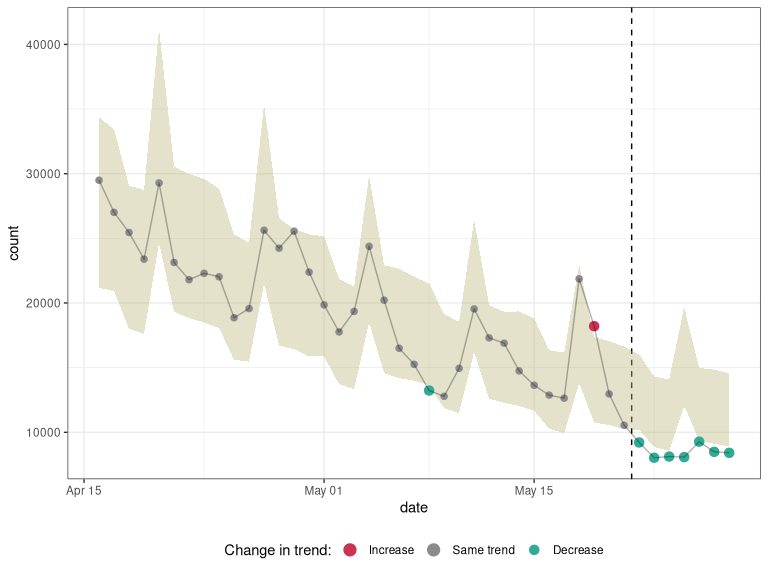
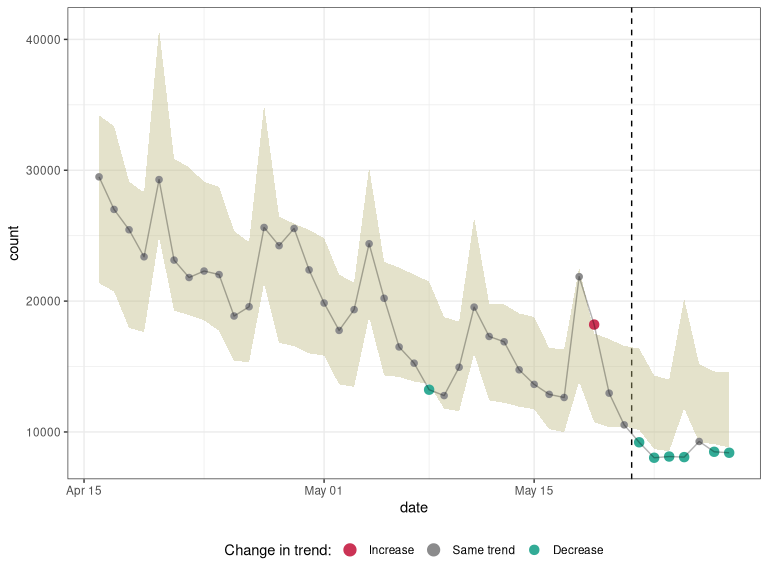
post code review changes

diff --git a/README.md b/README.md
@@ -159,8 +159,8 @@ res
 #>     }
 #>     result
 #> }
-#> <bytecode: 0x555dbbbb6e60>
-#> <environment: 0x555dbad35b60>
+#> <bytecode: 0x55b9ff02fac0>
+#> <environment: 0x55b9fe1ae7c0>
 #> 
 #> attr(,"class")
 #> [1] "trending_model_fit" "list"              
@@ -172,16 +172,16 @@ res
 #> # A tibble: 43 x 12
 #>    date         day weekday  count .training estimate lower_ci upper_ci lower_pi
 #>    <date>     <int> <fct>    <int> <lgl>        <dbl>    <dbl>    <dbl>    <dbl>
-#>  1 2020-04-16    29 rest_of… 29497 TRUE        27288.   25091.   29678.    21175
-#>  2 2020-04-17    30 rest_of… 27007 TRUE        26733.   24653.   28988.    20914
-#>  3 2020-04-18    31 weekend  25453 TRUE        23323.   21284.   25557.    17992
-#>  4 2020-04-19    32 weekend  23387 TRUE        22848.   20896.   24983.    17623
-#>  5 2020-04-20    33 monday   29287 TRUE        32078.   28549.   36043.    24667
-#>  6 2020-04-21    34 rest_of… 23134 TRUE        24621.   22957.   26406.    19313
-#>  7 2020-04-22    35 rest_of… 21803 TRUE        24120.   22547.   25803.    18835
-#>  8 2020-04-23    36 rest_of… 22298 TRUE        23629.   22141.   25218.    18489
-#>  9 2020-04-24    37 rest_of… 22027 TRUE        23148.   21740.   24648.    18063
-#> 10 2020-04-25    38 weekend  18861 TRUE        20196.   18665.   21852.    15604
+#>  1 2020-04-16    29 rest_of… 29497 TRUE        27288.   25091.   29678.    21369
+#>  2 2020-04-17    30 rest_of… 27007 TRUE        26733.   24653.   28988.    20738
+#>  3 2020-04-18    31 weekend  25453 TRUE        23323.   21284.   25557.    17952
+#>  4 2020-04-19    32 weekend  23387 TRUE        22848.   20896.   24983.    17627
+#>  5 2020-04-20    33 monday   29287 TRUE        32078.   28549.   36043.    24920
+#>  6 2020-04-21    34 rest_of… 23134 TRUE        24621.   22957.   26406.    19268
+#>  7 2020-04-22    35 rest_of… 21803 TRUE        24120.   22547.   25803.    18934
+#>  8 2020-04-23    36 rest_of… 22298 TRUE        23629.   22141.   25218.    18527
+#>  9 2020-04-24    37 rest_of… 22027 TRUE        23148.   21740.   24648.    17732
+#> 10 2020-04-25    38 weekend  18861 TRUE        20196.   18665.   21852.    15443
 #> # … with 33 more rows, and 3 more variables: upper_pi <dbl>, outlier <lgl>,
 #> #   classification <fct>
 #> 
